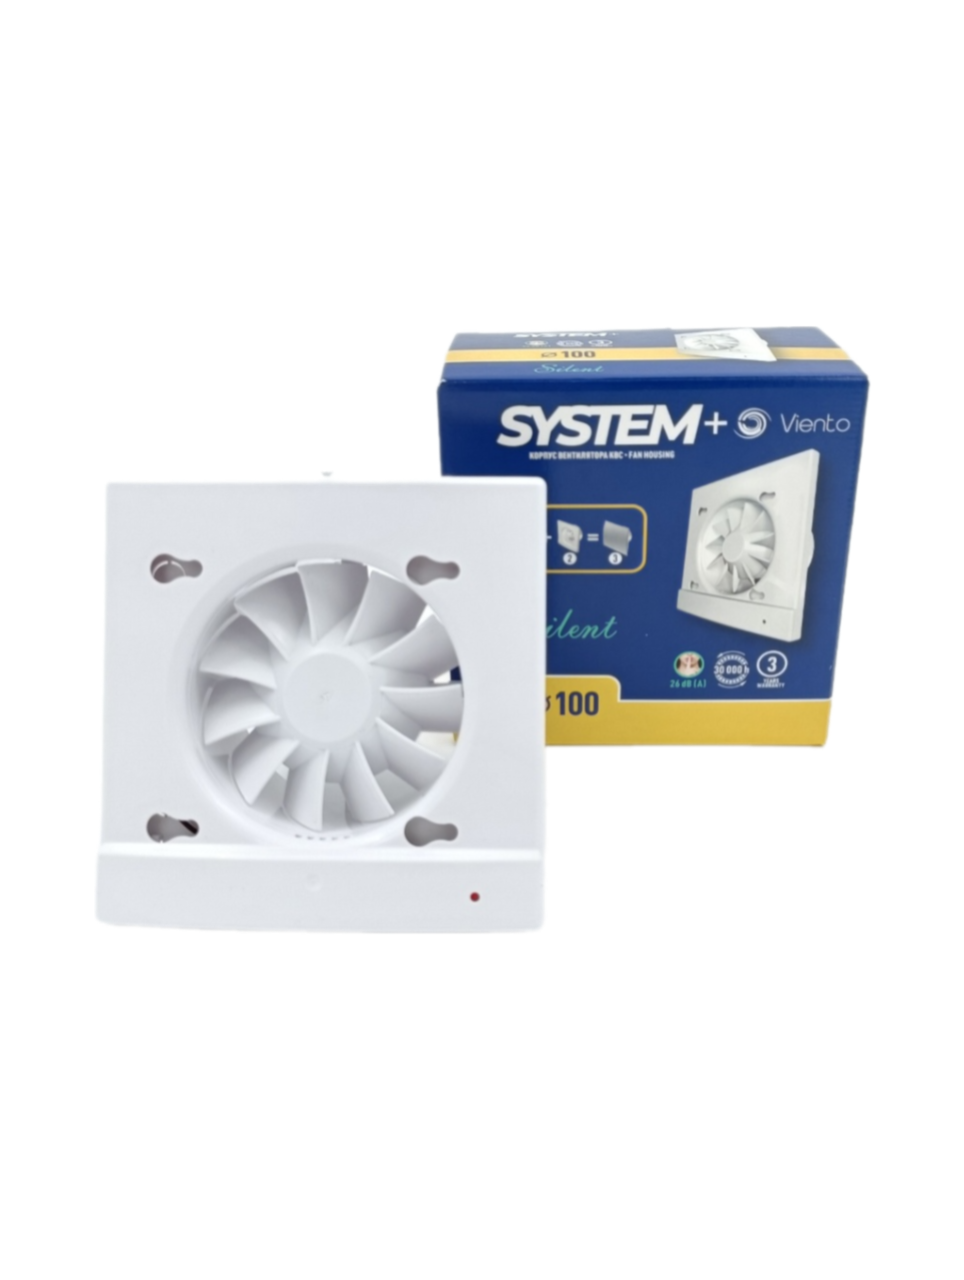
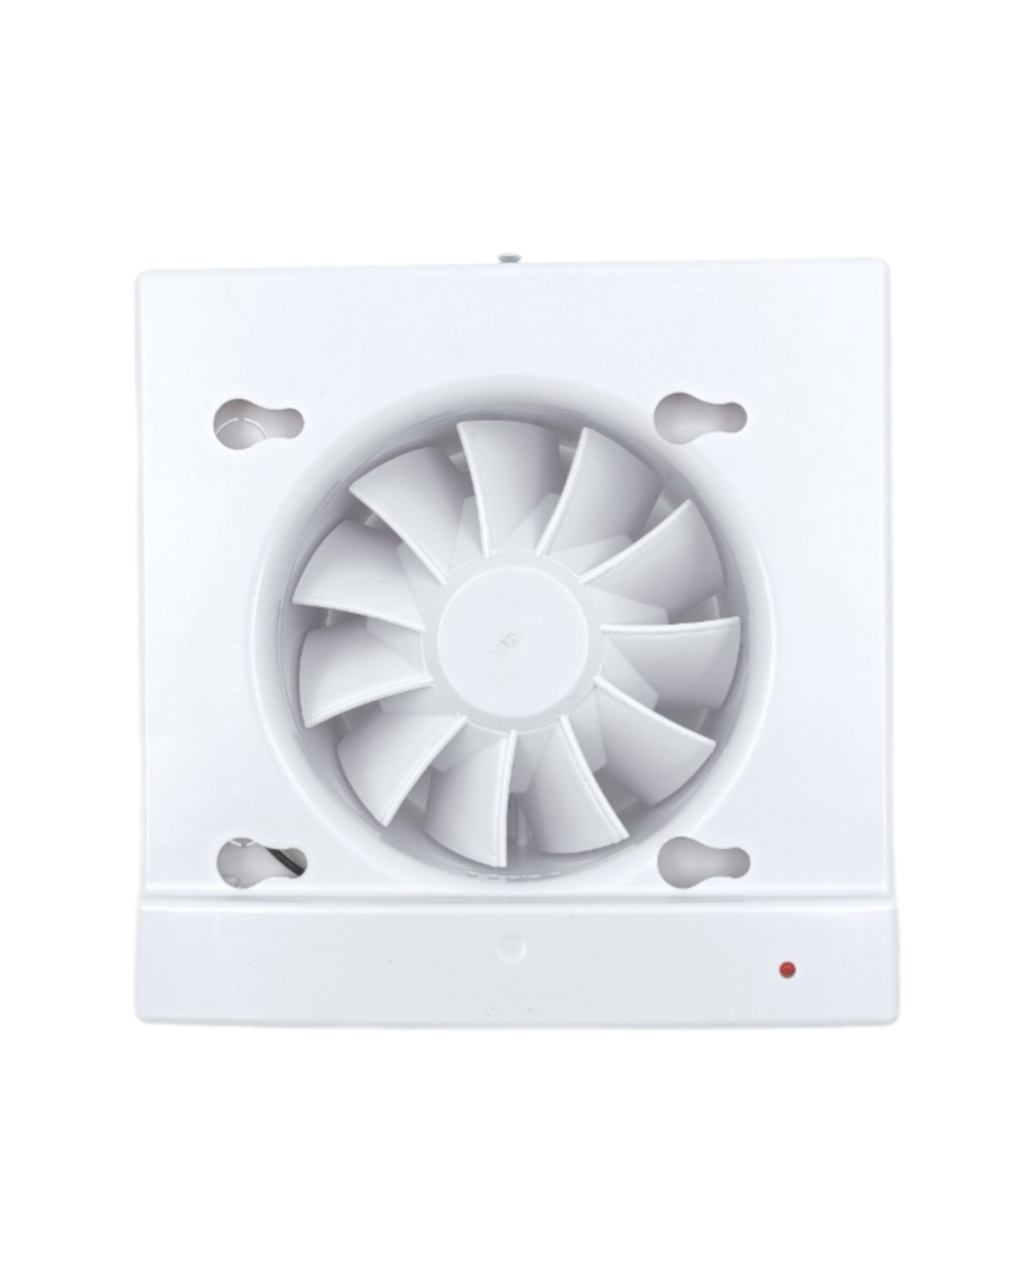
feat: Добавляет фото

Changed region(s): [[0.0934, 0.2466, 0.9025, 0.8324], [0.8714, 0.7091, 0.9025, 0.8016], [0.8402, 0.6783, 0.8714, 0.7091]]

diff --git a/src/app/products/vents/ventilyatory_vytyazhnye_viento_system_plus/[subcategories]/[product]/page.tsx b/src/app/products/vents/ventilyatory_vytyazhnye_viento_system_plus/[subcategories]/[product]/page.tsx
@@ -202,7 +202,11 @@ const Products = [
             "image_4.png",
             "image_5.png",
             "image_6.png",
-            "image_7.png"
+            "image_7.png",
+            "image_8.png",
+            "image_9.png",
+            "image_10.png",
+            "image_11.png"
         ]
     },
     {
@@ -336,7 +340,7 @@ const Products = [
             },
         ],
         "images": [
-            "image_1.png",
+            "index.png",
             "image_2.png",
             "image_3.png"
         ]
